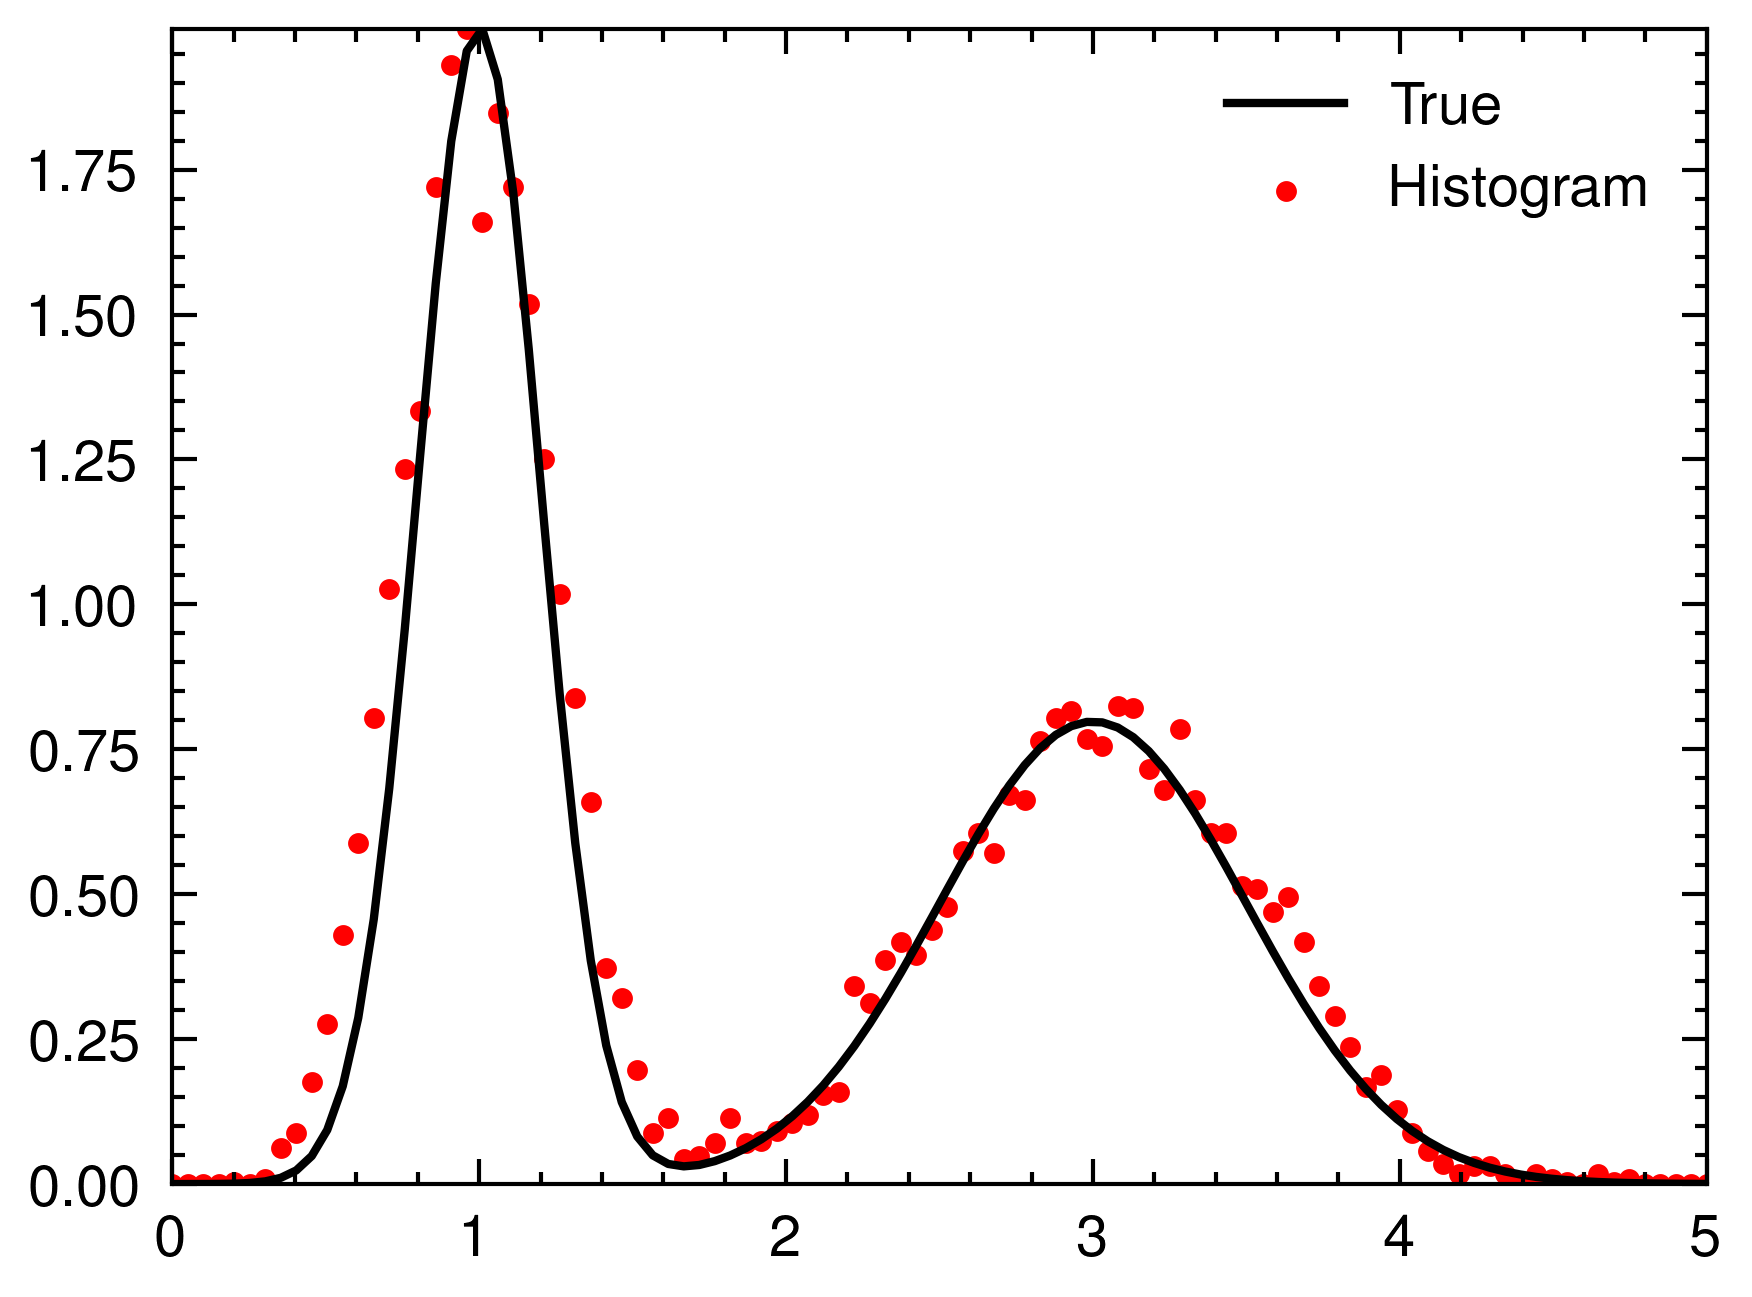
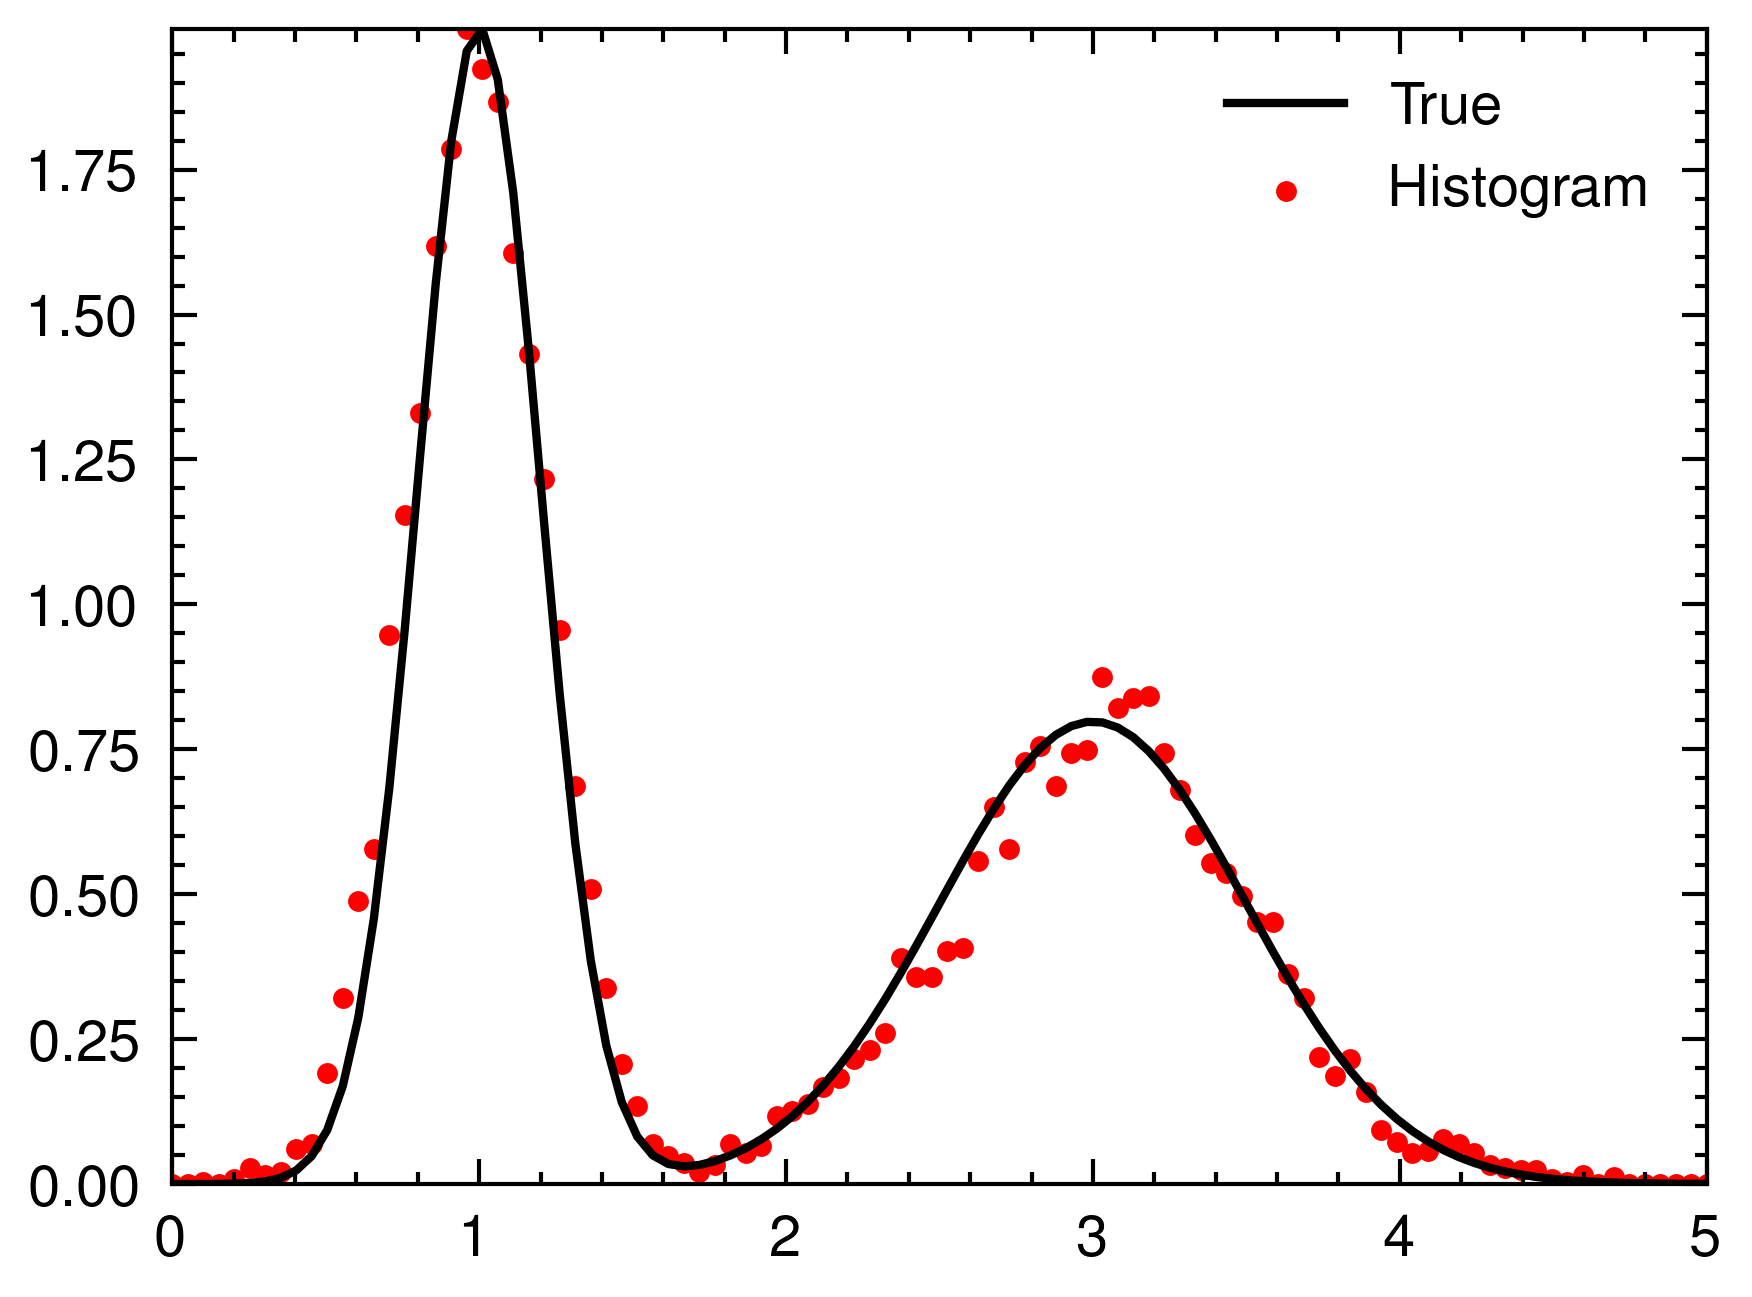
Add scott's rule

diff --git a/src/main.rs b/src/main.rs
@@ -11,8 +11,9 @@ fn main() -> Result<(), Box<dyn std::error::Error>> {
     // Kernel Density Estimation
     let x = linspace(0, 5, 1000);
     let y = x.fmap(true_pdf);
-    let bandwidth = 0.35;
-    let kde = kernel_density_estimation(&data, bandwidth, Kernel::Quartic, &x);
+    let bandwidth = scott_rule(&data);
+    bandwidth.print();
+    let kde = kernel_density_estimation(&data, bandwidth, Kernel::Epanechnikov, &x);
     let scale_factor = y.max() / kde.max();
     let kde = kde.fmap(|x| x * scale_factor);
 
@@ -141,3 +142,10 @@ fn kernel_density_estimation(data: &[f64], bandwidth: f64, kernel: Kernel, domai
         })
 }
 
+/// Scott's rule for estimating bandwidth
+fn scott_rule(data: &[f64]) -> f64 {
+    let data = data.to_vec();
+    let n = data.len() as f64;
+    let std = data.sd();
+    std / n.powf(0.2)
+}
